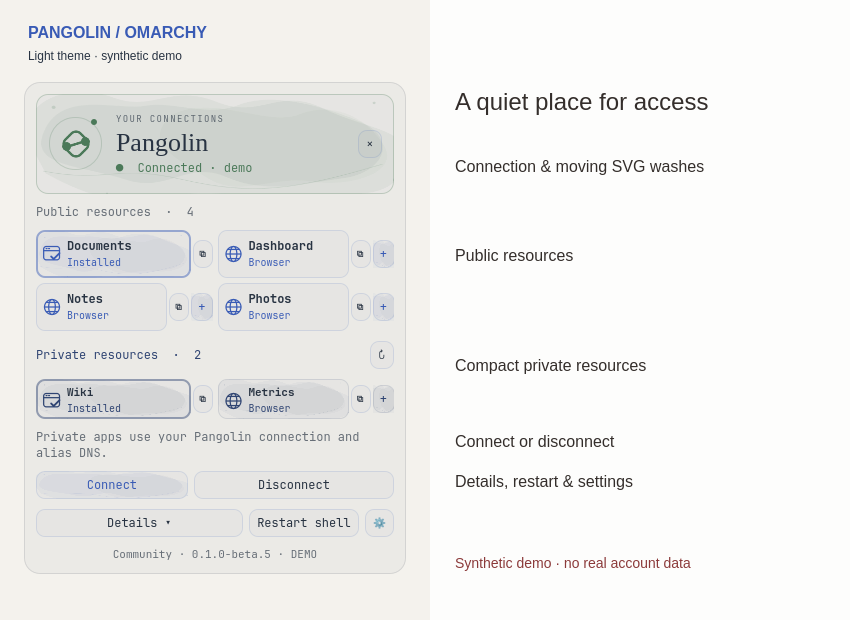
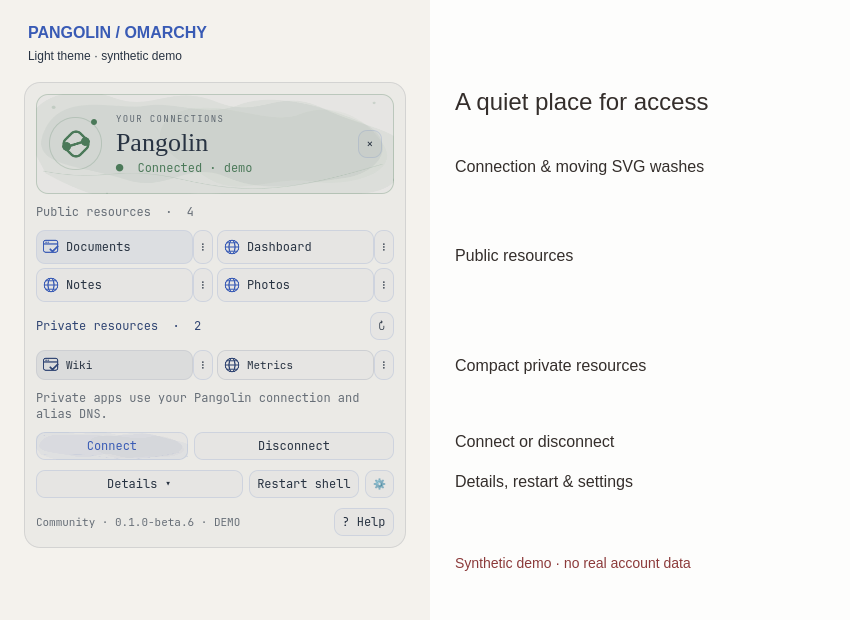
Release 0.1.0-beta.6: compact resources, action menus and in-app documentation

diff --git a/Dashboard.qml b/Dashboard.qml
@@ -21,7 +21,7 @@ FocusScope {
   Keys.onEscapePressed: control.close()
   readonly property string statusHint: control.stale ? "Status could not be confirmed. Reopen the panel to retry; no connection animation runs." : control.healthy ? "Pangolin is connected. Private resources also require working alias DNS. Individual sites may connect on demand." : control.status.state === "warning" ? "Pangolin needs attention. Open Details for the reported condition." : control.status.state === "off" ? "Pangolin is disconnected. Connect to access private resources." : control.status.state === "error" ? "Pangolin reported an error. Open Details or run Diagnose HTTPS." : "Connection is not yet confirmed. Open Details for more information."
   function resourceHint(item) {
-    const action = !item.enabled ? "This resource is disabled." : !item.url ? "Click to copy the host address. No web protocol is configured." : item.appInstalled ? "Installed app · click to open its app window." : "Browser link · click to open in your browser. Use + to install as an app."
+    const action = !item.enabled ? "This resource is disabled." : !item.url ? "Click to copy the host address. No web protocol is configured." : item.appInstalled ? "Installed app · click to open its app window." : "Browser link · click to open in your browser. Use the actions menu to install as an app."
     return item.name + "\n" + action + "\n" + (item.url || item.address || "") + (item.site ? "\nSite: " + item.site : "") + (item.internal ? "\nRequires a Pangolin connection and alias DNS." : "")
   }
   function sample() { mark.sample() }
@@ -59,9 +59,9 @@ FocusScope {
       RowLayout {
         width: parent.width
         Label { Layout.fillWidth: true; text: "Public resources  ·  " + view.externalItems.length; color: view.muted }
-        Action { visible: view.externalItems.length > 6; text: view.all ? "Less" : "All " + view.externalItems.length; hint: view.all ? "Show the first six public resources" : "Show all public resources"; onClicked: view.all = !view.all }
+        Action { visible: view.externalItems.length > 8; text: view.all ? "Less" : "All " + view.externalItems.length; hint: view.all ? "Show the first eight public resources" : "Show all public resources"; onClicked: view.all = !view.all }
       }
-      ResourceGrid { resources: view.all ? view.externalItems : view.externalItems.slice(0, 6); compact: false }
+      ResourceGrid { resources: view.all ? view.externalItems : view.externalItems.slice(0, 8); compact: false }
       RowLayout {
         width: parent.width
         Label { Layout.fillWidth: true; text: "Private resources  ·  " + view.internalItems.length; color: view.internalAccent }
@@ -89,61 +89,84 @@ FocusScope {
         RowLayout {
           width: parent.width
           Action { Layout.fillWidth: true; text: "Diagnose HTTPS"; hint: "Check HTTPS connectivity to your selected Pangolin server"; enabled: !control.demo && !control.busy; onClicked: control.run("diagnose") }
-          Action { Layout.fillWidth: true; text: "Dashboard ↗"; hint: "Open the dashboard of your active Pangolin account"; enabled: !control.demo && !control.busy; onClicked: control.run("dashboard") }
+          Action { Layout.fillWidth: true; text: "Dashboard"; hint: "Open the dashboard of your active Pangolin account"; enabled: !control.demo && !control.busy; onClicked: control.run("dashboard") }
         }
       }
       Label { width: parent.width; visible: !!control.actionError; text: control.actionError; wrapMode: Text.WordWrap; color: Color.urgent }
-      Label { width: parent.width; text: "Community · " + Version.current + (control.demo ? " · DEMO" : ""); color: view.muted; horizontalAlignment: Text.AlignHCenter; font.pixelSize: Style.font.caption - 1 }
+      RowLayout {
+        width: parent.width
+        Label { Layout.fillWidth: true; text: "Community · " + Version.current + (control.demo ? " · DEMO" : ""); color: view.muted; font.pixelSize: Style.font.caption - 1 }
+        Action { text: "? Help"; enabled: !control.demo; hint: "Open the user guide, icon legend and troubleshooting on GitHub"; onClicked: control.openHelp() }
+      }
     }
   }
   component ResourceGrid: Grid {
     required property var resources
     property bool compact: false
     id: grid
-    width: parent.width; columns: 2; spacing: Style.space(5)
+    width: parent.width; columns: 2; spacing: Style.space(4)
     Repeater {
       model: grid.resources
       RowLayout {
         id: tile
         required property var modelData
         readonly property color tint: grid.compact ? view.internalAccent : view.accent
-        property bool copied: false
-        width: (grid.width - grid.spacing) / 2; height: Style.space(grid.compact ? 40 : 48); spacing: Style.space(2)
+        width: (grid.width - grid.spacing) / 2; height: Style.space(grid.compact ? 30 : 34); spacing: 0
         Action {
+          id: resourceButton
           Layout.fillWidth: true; Layout.minimumWidth: 0; Layout.preferredWidth: 1
-          implicitHeight: tile.height; tint: tile.tint; primary: grid.compact || tile.modelData.appInstalled; emphasized: tile.modelData.appInstalled
+          implicitHeight: tile.height; tint: tile.tint; tinted: !!tile.modelData.appInstalled
           leftPadding: Style.space(6); rightPadding: Style.space(4)
           enabled: !control.demo && !control.busy && (tile.modelData.url ? tile.modelData.enabled : !!tile.modelData.address)
           Accessible.name: tile.modelData.name + (tile.modelData.appInstalled ? " installed app" : tile.modelData.url ? " browser link" : " copy address")
           hint: view.resourceHint(tile.modelData)
           contentItem: RowLayout {
-            spacing: Style.space(5)
-            ResourceIcon { Layout.preferredWidth: Style.space(20); Layout.preferredHeight: Style.space(20); ink: tile.tint; installed: !!tile.modelData.appInstalled; web: !!tile.modelData.url }
-            Column {
-              Layout.fillWidth: true; Layout.minimumWidth: 0; spacing: 2
-              Label { width: parent.width; text: tile.modelData.name; font.bold: true; font.pixelSize: Style.font.caption - (grid.compact ? 1 : 0); elide: Text.ElideRight }
-              Label { width: parent.width; text: !tile.modelData.enabled ? "Disabled" : tile.modelData.appInstalled ? "Installed" : tile.modelData.url ? "Browser" : "Copy address"; color: tile.tint; font.pixelSize: Style.font.caption - 2; elide: Text.ElideRight }
-            }
+            spacing: Style.space(6)
+            ResourceIcon { Layout.preferredWidth: Style.space(18); Layout.preferredHeight: Style.space(18); ink: tile.tint; installed: !!tile.modelData.appInstalled; web: !!tile.modelData.url }
+            Label { Layout.fillWidth: true; Layout.minimumWidth: 0; text: tile.modelData.name; font.pixelSize: Style.font.caption - (grid.compact ? 1 : 0); elide: Text.ElideRight }
           }
           onClicked: control.openResource(tile.modelData)
+          TapHandler { acceptedButtons: Qt.RightButton; onTapped: resourceMenu.open() }
         }
         Action {
-          Layout.preferredWidth: Style.space(20); leftPadding: 0; rightPadding: 0
-          text: tile.copied ? "✓" : "⧉"; enabled: !control.demo
-          Accessible.name: "Copy " + tile.modelData.name
-          hint: tile.copied ? "Copied to clipboard" : "Copy " + (tile.modelData.url ? "URL" : "host address") + "\n" + (tile.modelData.url || tile.modelData.address)
-          onClicked: { control.copyResource(tile.modelData); tile.copied = true; copiedTimer.restart() }
+          Layout.preferredWidth: Style.space(20); implicitHeight: tile.height; leftPadding: 0; rightPadding: 0
+          text: control.installing === tile.modelData.id ? "…" : "⋮"
+          Accessible.name: "Actions for " + tile.modelData.name
+          hint: "Copy address" + (tile.modelData.url && !tile.modelData.appInstalled ? " or install as an app" : "") + " · also available with right-click"
+          onClicked: resourceMenu.open()
         }
-        Action {
-          visible: !!tile.modelData.url && !tile.modelData.appInstalled
-          Layout.preferredWidth: Style.space(22); leftPadding: 0; rightPadding: 0
-          text: control.installing === tile.modelData.id ? "…" : "+"; primary: true; tint: tile.tint
-          enabled: !control.demo && !control.busy && tile.modelData.enabled
-          Accessible.name: "Install " + tile.modelData.name + " as an app"
-          hint: "Install " + tile.modelData.name + " as an Omarchy web app. Adds a launcher; the service remains on its server."
-          onClicked: control.run("install", tile.modelData.id)
+        Popup {
+          id: resourceMenu
+          parent: Overlay.overlay
+          x: Math.max(Style.space(6), Math.min(tile.mapToItem(parent, 0, 0).x, parent.width - width - Style.space(6)))
+          y: Math.max(Style.space(6), Math.min(tile.mapToItem(parent, 0, tile.height).y, parent.height - height - Style.space(6)))
+          onAboutToShow: {
+            const point = tile.mapToItem(Overlay.overlay, 0, tile.height)
+            x = Math.max(Style.space(6), Math.min(point.x, Overlay.overlay.width - width - Style.space(6)))
+            y = Math.max(Style.space(6), Math.min(point.y, Overlay.overlay.height - height - Style.space(6)))
+          }
+          width: Style.space(240); padding: Style.space(6); focus: true
+          background: Rectangle { color: view.tooltipSurface; radius: Style.space(9); border.color: tile.tint }
+          contentItem: Column {
+            spacing: Style.space(4)
+            Label { width: parent.width; text: tile.modelData.name; elide: Text.ElideRight; font.bold: true; padding: Style.space(4) }
+            Action {
+              width: parent.width; text: tile.modelData.appInstalled ? "Open app" : tile.modelData.url ? "Open in browser" : "Copy host address"
+              enabled: !control.demo && !control.busy && (tile.modelData.url ? tile.modelData.enabled : !!tile.modelData.address)
+              onClicked: { resourceMenu.close(); control.openResource(tile.modelData) }
+            }
+            Action {
+              width: parent.width; visible: !!tile.modelData.url; text: "Copy URL"; enabled: !control.demo
+              onClicked: { control.copyResource(tile.modelData); resourceMenu.close() }
+            }
+            Action {
+              width: parent.width; visible: !!tile.modelData.url && !tile.modelData.appInstalled; text: "Install as app"
+              enabled: !control.demo && !control.busy && tile.modelData.enabled
+              hint: "Adds an Omarchy app launcher. The service remains on its server."
+              onClicked: { resourceMenu.close(); control.run("install", tile.modelData.id) }
+            }
+          }
         }
-        Timer { id: copiedTimer; interval: 1500; onTriggered: tile.copied = false }
       }
     }
   }
@@ -154,6 +177,7 @@ FocusScope {
     id: action
     property bool primary: false
     property bool emphasized: false
+    property bool tinted: false
     property string hint: ""
     Accessible.description: hint
     HoverHandler { id: actionHover }
@@ -170,7 +194,7 @@ FocusScope {
     background: Rectangle {
       radius: Style.space(9)
       clip: true
-      color: Qt.rgba(view.ink.r,view.ink.g,view.ink.b,action.hovered ? 0.065 : 0.025)
+      color: action.tinted ? Qt.rgba(action.tint.r,action.tint.g,action.tint.b,action.hovered ? 0.16 : 0.085) : Qt.rgba(view.ink.r,view.ink.g,view.ink.b,action.hovered ? 0.065 : 0.025)
       border.width: action.activeFocus || action.emphasized ? 2 : 1
       border.color: action.activeFocus ? action.tint : action.emphasized ? Qt.rgba(action.tint.r,action.tint.g,action.tint.b,0.48) : Qt.rgba(action.tint.r,action.tint.g,action.tint.b,0.16)
       Wash {

diff --git a/BarWidget.qml b/BarWidget.qml
@@ -57,6 +57,7 @@ Ui.Panel {
     else copyResource(item)
   }
   function copyResource(item) { if (!demo) Quickshell.execDetached(["wl-copy", "--", item.url || item.address]) }
+  function openHelp() { if (!demo) Quickshell.execDetached(["xdg-open", "https://github.com/PatrickIsenegger/omarchy-pangolin/blob/main/docs/README.md"]) }
   function restartApp() { if (!demo) { close(); Quickshell.execDetached(["omarchy", "restart", "shell"]) } }
   onOpenedChanged: if (opened) { refresh(); loadResources() }
   onDemoChanged: { stale = true; items = []; refresh(); loadResources() }

diff --git a/Version.js b/Version.js
@@ -1,3 +1,3 @@
 .pragma library
 // Generated from manifest.json by tools/bump_version.py.
-var current = "0.1.0-beta.5"
+var current = "0.1.0-beta.6"

diff --git a/docs/guide.de.md b/docs/guide.de.md
@@ -1,0 +1,43 @@
+# Bedienungsanleitung
+
+[Hilfe-Startseite](README.md) · [English](guide.md)
+
+## Symbole und Ressourcen
+
+| Symbol | Bedeutung | Linksklick |
+| --- | --- | --- |
+| Fenster mit Häkchen | Bereits installierte Web-App; dezent getönte Kachel | Öffnet das App-Fenster |
+| Globus | Web-Ressource ohne erkannten App-Launcher | Öffnet die URL im Browser |
+| Überlappende Blätter | Host-Adresse ohne konfigurierte Web-URL | Kopiert die Adresse |
+| ⋮ | Aktionen zur Ressource | Öffnet das Menü |
+
+Die Symbole ersetzen die wiederholten App-/Web-Textzeilen. Öffentliche und private Ressourcen bleiben getrennt; private Zeilen sind etwas kleiner. Lange Namen werden gekürzt. Hover oder Tastaturfokus zeigt den vollständigen Namen, das Ziel und die Voraussetzungen.
+
+Im **⋮-Menü** kannst du öffnen, die URL kopieren oder eine Web-App installieren. Rechtsklick auf eine aktive Ressource öffnet dasselbe Menü. Bei installierten Apps entfällt die Installation. „Install as app“ erstellt einen lokalen Omarchy-Launcher; der Dienst bleibt auf seinem Server. Aktualisieren prüft die Ressource und den erkannten App-Status erneut.
+
+## Verbindung und Farben
+
+- **Grün:** Der lokale Pangolin-Client bestätigt die Verbindung. Einzelne Sites können trotzdem erst bei Bedarf verbunden werden.
+- **Gelb:** Registrierung ausstehend, Warnung oder unbekannter/veralteter Status. Details prüfen.
+- **Rot:** Getrennt oder Client-Fehler. Die Beschriftung unterscheidet beide Fälle.
+
+Die Farben kommen aus deinem Omarchy-Theme. Symbol und Farbflächen bewegen sich nur bei bestätigter Verbindung; die Panel-Animation pausiert zusätzlich beim Schließen. Die Ressourcen-Symbole sind statische SVGs ohne externe Icon-Downloads.
+
+**Connect** startet Pangolin in einem Terminal für nötige Anmeldung oder Berechtigungen. **Disconnect** beendet die Verbindung. Interne Ressourcen benötigen die Verbindung und funktionierendes Alias-DNS. Eine Host-Adresse ist nicht automatisch eine HTTP(S)-URL: siehe [Konfiguration](configuration.md).
+
+## Weitere Bedienelemente
+
+- Linksklick auf das Leisten-Symbol öffnet das Panel; Rechtsklick öffnet das Dashboard des aktiven Kontos.
+- **↻** lädt Ressourcen und App-Erkennung neu. **All / Less** blendet über die ersten acht hinaus weitere öffentliche Ressourcen ein oder aus.
+- **Details** zeigt Tunnel, DNS, Sites und Statusdetails; dort findest du HTTPS-Diagnose und Server-Dashboard.
+- **⚙** öffnet lokale Einstellungen. Diese liegen außerhalb des Plugin-Checkouts.
+- **Restart shell** startet die gesamte Omarchy-Shell einschließlich anderer Plugins neu, lässt aber die VPN-Verbindung bestehen.
+- **? Help** öffnet die öffentliche Dokumentation ohne private Daten im Link.
+
+Mit Tab durch die Schaltflächen navigieren, mit Enter/Leertaste aktivieren. Escape schließt zunächst ein geöffnetes Menü beziehungsweise das Panel. Auch nicht verfügbare Aktionen bleiben mit der Maus erklärbar. Im Demo-Modus bleiben echte Aktionen deaktiviert.
+
+## Hilfe bei Problemen
+
+Bei gekürzten Namen oder unklaren Zielen zuerst den Hover-Hinweis prüfen. Wenn eine App fehlt, Ressourcen aktualisieren. Bei internen Verbindungsproblemen Status, DNS und konfigurierte URL prüfen. Weitere Schritte: [Fehlerbehebung](troubleshooting.md).
+
+Bitte nur erfundene Ressourcen und bereinigte Fehlermeldungen in GitHub-Issues verwenden; keine Zugangsdaten, privaten URLs oder Kontodateien veröffentlichen.

diff --git a/docs/guide.md b/docs/guide.md
@@ -1,0 +1,35 @@
+# User guide
+
+[Help home](README.md) · [Deutsch](guide.de.md)
+
+## Resource legend
+
+| Icon | Meaning | Click action |
+| --- | --- | --- |
+| Checked window | Installed web app, with a subtle flat tile tint | Open the app window |
+| Globe | Web resource without a detected app launcher | Open in the browser |
+| Overlapping sheets | Host address without a configured web URL | Copy the address |
+| ⋮ | Resource actions | Open its menu |
+
+Each resource uses one line. Private resources are slightly smaller and remain in their own section. Hover or keyboard focus reveals the full name, destination and connection requirements.
+
+The **⋮ menu**, also available by right-clicking an enabled resource, offers opening, URL copying and app installation. Installed apps omit the installation action. Installing adds an Omarchy launcher; the service remains on its server. Refresh to check resource and installed-app state again.
+
+## Connection
+
+**Green** confirms a local Pangolin connection. Individual sites may still connect on demand. **Yellow** means pending registration, a warning or unknown/stale status. **Red** means disconnected or a client error; the text distinguishes them. Colors follow the active theme. SVG motion runs only with a confirmed connection, and panel motion pauses when closed. Resource icons are static and never downloaded externally.
+
+**Connect** starts Pangolin in a terminal for any required authentication or privileges. **Disconnect** stops the connection. Private resources require Pangolin and alias DNS. A host address does not imply HTTP(S); use [configuration](configuration.md) for explicit URLs.
+
+## Controls
+
+- Left-click the bar icon to toggle the panel; right-click it to open the selected account's dashboard.
+- **↻** reloads resources and installed-app detection. **All / Less** expands public resources beyond the first eight or restores that limit.
+- **Details** shows tunnel, DNS, sites and status information, plus HTTPS diagnosis and the server dashboard.
+- **⚙** opens local settings stored outside the plugin checkout.
+- **Restart shell** restarts the whole Omarchy shell, including other plugins, without disconnecting the VPN.
+- **? Help** opens the public documentation with no private account or resource data in the link.
+
+Tab navigates buttons; Enter/Space activates them. Escape dismisses an open menu or the panel. Hover explanations also work for unavailable actions. Demo mode disables real actions.
+
+See [troubleshooting](troubleshooting.md) for failures and [releases](releases.md) for updates and rollback. Share only synthetic resources and redacted errors in issues, never credentials or private URLs.

diff --git a/README.md b/README.md
@@ -11,7 +11,7 @@
 [![Hosting: Cloud and self-hosted](assets/badges/hosting.svg)](docs/compatibility.md)
 [![Style: Omarchy theme](assets/badges/theme.svg)](docs/graphics.md)
 
-[Install](#install) · [Configure](docs/configuration.md) · [Releases](https://github.com/PatrickIsenegger/omarchy-pangolin/releases) · [Deutsch](README.de.md) · [Patrick Isenegger ↗](https://patrickisenegger.com)
+[Install](#install) · [User guide](docs/README.md) · [Configure](docs/configuration.md) · [Releases](https://github.com/PatrickIsenegger/omarchy-pangolin/releases) · [Deutsch](README.de.md) · [Patrick Isenegger ↗](https://patrickisenegger.com)
 
 ![The real plugin UI in two demonstration themes; all resources are fictional](assets/preview.png)
 
@@ -70,9 +70,11 @@ The plugin ID is `patrick.pangolin`. Omarchy will not overwrite an existing inst
 
 ## Use
 
-Installed apps have a checked window icon, a stronger outline and an **Installed** label. Browser links use a globe and **Browser** label; the plus button installs an app launcher. Hover over resources and controls (or focus a button with the keyboard) for contextual help. The header uses theme green for a confirmed connection, yellow for pending/unknown states and warnings, and red for disconnected/error states.
+Resources use a compact single-line layout: a **checked window** identifies an installed app, a **globe** a browser link, and **overlapping sheets** an address-only resource. App tiles have a subtle flat tint; there are no repeated type labels or resource watercolor fills. Hover or focus a resource for its full name, target and requirements.
 
-Left-click the bar icon to open the panel. Right-click opens the account's dashboard. Resource tiles open their web URL, preferring a matching installed app. `+` installs a web-app launcher. The adjacent copy button copies the URL or host address.
+Left-click a resource to open it (or copy an address-only host). The **⋮ menu**, also available by right-click, contains opening, copying and app installation. **? Help** in the panel opens the [user guide](docs/README.md). Left-click the bar icon to toggle the panel; right-click the bar icon opens the account dashboard.
+
+The header uses theme green for a confirmed connection, yellow for pending/unknown states and warnings, and red for disconnected/error states.
 
 Private resources need an active Pangolin connection and working alias DNS. A host resource is not necessarily a web service: configure a full URL or a known scheme under [settings](docs/configuration.md). A TCP allowlist alone does not identify HTTP versus HTTPS.
 

diff --git a/README.de.md b/README.de.md
@@ -24,9 +24,11 @@ Pangolin-CLI installieren. Für Pangolin Cloud mit `pangolin login app.pangolin.
 
 ## Bedienung
 
-Installierte Apps tragen ein Fenster-Symbol mit Häkchen, eine stärkere Umrandung und „Installed“. Web-Links erkennt man am Globus und „Browser“. Hover-Infos erklären Ziele und Aktionen. Oben steht Grün für verbunden, Gelb für ausstehend/unbekannt oder eine Warnung und Rot für getrennt/Fehler – jeweils aus dem Theme.
+Die kompakte Ressourcenliste zeigt nur Symbol und Name: Fenster mit Häkchen = installierte App, Globus = Browser-Link, überlappende Blätter = Host-Adresse kopieren. Apps erhalten eine dezente, flache Tönung. Hover-Infos erklären Ziel und Voraussetzungen.
 
-Linksklick öffnet das Panel, Rechtsklick das Dashboard. Ressourcen öffnen im Browser oder in einer erkannten Web-App. Das Plus installiert einen Launcher; der Kopierknopf kopiert die Adresse. Interne Ressourcen benötigen Pangolin und Alias-DNS. Für Host-Webdienste die vollständige URL oder ein bekanntes Protokoll in der Konfiguration hinterlegen.
+Linksklick öffnet die Ressource. Das **⋮-Menü** (auch per Rechtsklick) enthält Kopieren und App-Installation. **? Help** im Panel führt zur [Dokumentation](docs/README.md). Interne Dienste benötigen die Pangolin-Verbindung und Alias-DNS; für Host-Webdienste gegebenenfalls eine vollständige URL konfigurieren.
+
+Oben steht Grün für verbunden, Gelb für ausstehend/unbekannt oder Warnung und Rot für getrennt/Fehler – jeweils aus dem Theme.
 
 „Restart shell“ startet die gesamte Omarchy-Leiste mit ihren Plugins neu; die VPN-Verbindung bleibt bestehen. Ohne bestätigte Verbindung gibt es keine Statusanimation.
 

diff --git a/docs/README.md b/docs/README.md
@@ -1,0 +1,19 @@
+# Pangolin for Omarchy · Help
+
+A small community plugin for Pangolin connections, resources and web apps.
+
+**[Deutsch: Bedienungsanleitung](guide.de.md)** · **[English: User guide](guide.md)**
+
+![Compact resource panel in two synthetic themes](../assets/preview.png)
+
+| Reference | What you will find |
+| --- | --- |
+| [Configuration](configuration.md) | Private web URLs, protocol overrides and account-scoped settings |
+| [Compatibility](compatibility.md) | Omarchy requirements, Pangolin Cloud and self-hosted support, test scope |
+| [Troubleshooting](troubleshooting.md) | Connection, DNS, resource and app problems |
+| [Releases and rollback](releases.md) | Versions, updates and choosing a previous release |
+| [Changelog](../CHANGELOG.md) | Changes in each version |
+
+The plugin's **? Help** button opens this page. It does not include your server, resource names, account or credentials in the link. GitHub requires internet access; these Markdown files are also included in the installed plugin checkout under `docs/`.
+
+Independent community project by [Patrick Isenegger](https://patrickisenegger.com), not an official Pangolin or Omarchy product. All published examples and previews are synthetic.

diff --git a/docs/releases.md b/docs/releases.md
@@ -13,7 +13,7 @@ Community registry submission follows initial beta feedback. Publishing the repo
 ## Preparing the next version
 
 ```bash
-python3 tools/bump_version.py 0.1.0-beta.6
+python3 tools/bump_version.py 0.1.0-beta.7
 ```
 
 This updates the manifest, shared UI version and local README version badge together. Choose the actual next version, update `CHANGELOG.md`, regenerate previews, then run `python3 tools/check_release.py` and the documented checks. Beta numbers increase monotonically; published tags are never rewritten. The version badge links to GitHub Releases so readers can see release notes and prerelease status.

diff --git a/CHANGELOG.md b/CHANGELOG.md
@@ -1,5 +1,12 @@
 # Changelog
 
+## 0.1.0-beta.6 — 2026-09-13
+
+- Compact, single-line resources identified by window, globe or copy SVGs; flat app tiles replace resource watercolor fills and secondary labels.
+- Show up to eight public resources in the default view instead of six.
+- Copy and installation actions move into a three-dot menu, also available by right-click.
+- Add an in-panel Help link and bilingual documentation with an icon legend and usage guide.
+
 ## 0.1.0-beta.5 — 2026-09-13
 
 - Distinguish installed apps with a checked window SVG, stronger outline and Installed label; browser links use a globe.
